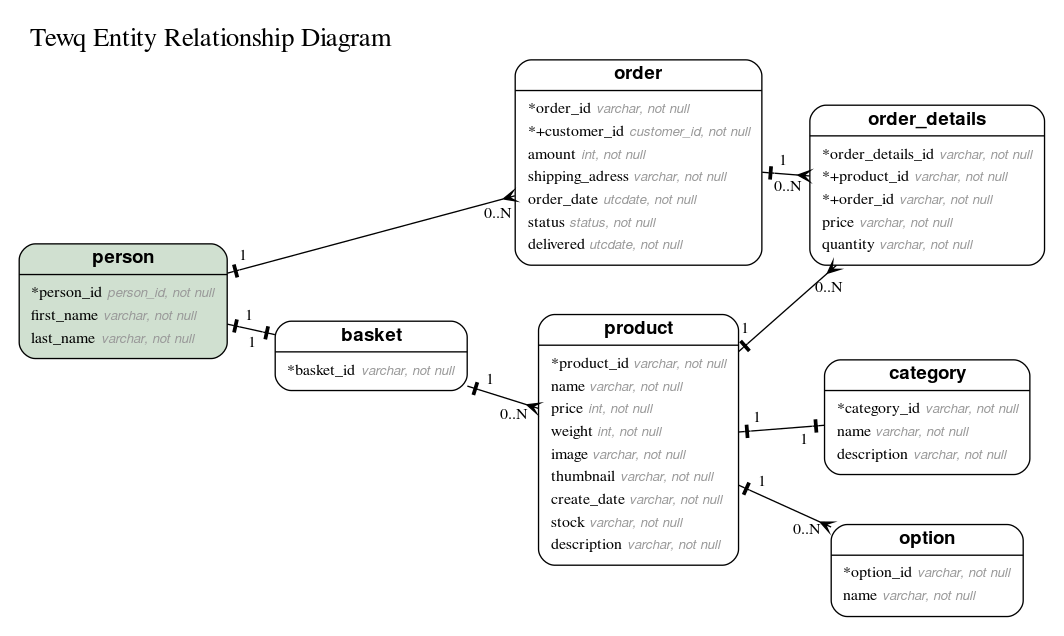
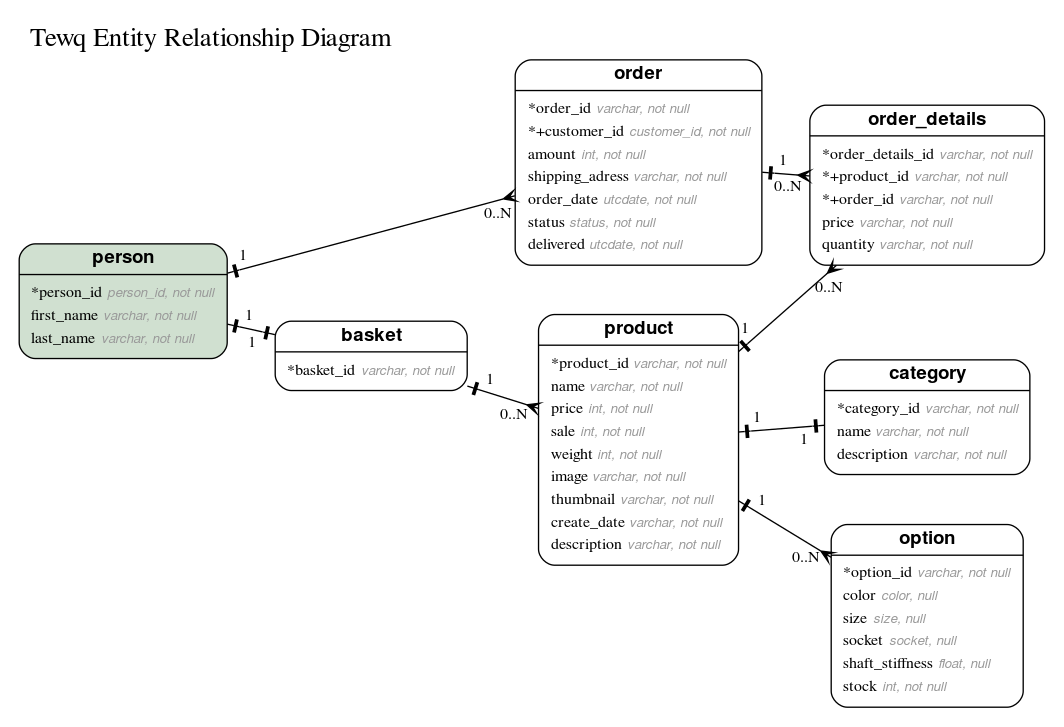
Add function to add a option to a Product.

diff --git a/dynamodb/dynamodb.go b/dynamodb/dynamodb.go
@@ -12,20 +12,25 @@ import (
 )
 
 type Option struct {
-	ID string `json:"id"`
+	ID             string  `json:"id"` // TODO make this in UUID instead...
+	CreatedDate    string  `json:"createdDate"`
+	Stock          int     `json:"stock" dynamodbav:",omitempty"`
+	ShaftStiffness float64 `json:"shaftStiffness" dynamodbav:",omitempty"`
+	Size           string  `json:"size" dynamodbav:",omitempty"`   // TODO enum?
+	Socket         string  `json:"socket" dynamodbav:",omitempty"` // TODO enum?
+	Color          string  `json:"socket" dynamodbav:",omitempty"` // TODO enum?
 }
 
 type Product struct {
-	ID          string    `json:"id"`
-	Name        string    `json:"name"`
-	Description string    `json:"description"`
-	Price       int       `json:"price"`
-	Weight      int       `json:"weight"`
-	Image       string    `json:"image"`
-	Thumbnail   string    `json:"thumbNail"`
-	CreatedDate time.Time `json:"createdDate"`
-	Stock       int       `json:"stock"`
-    Options     []Option  `json:"options" dynamodbav:"-"`
+	ID          string   `json:"id"`
+	CreatedDate string   `json:"createdDate"` // TODO Special time here?
+	Name        string   `json:"name"`
+	Description string   `json:"description"`
+	Price       int      `json:"price"`
+	Weight      int      `json:"weight"`
+	Image       string   `json:"image"`
+	Thumbnail   string   `json:"thumbNail"`
+	Options     []Option `json:"options" dynamodbav:",omitempty"`
 }
 
 type Basket struct {
@@ -84,3 +89,31 @@ func (db *DynamoDB) AddProduct(p Product) (string, error) {
 	return p.ID, err
 }
 
+func (db *DynamoDB) AddOptionToProduct(id string, option Option) error {
+	if option.ID != "" {
+		return fmt.Errorf("When adding an product we did not expect the ID to have a value but it got %q", id)
+	}
+	if option.CreatedDate != "" {
+		return fmt.Errorf("When adding an product we did not expect the CreatedDate to already be set but it was set to %q", option.CreatedDate)
+	}
+	option.ID = uuid.New().String()
+	option.CreatedDate = time.Now().Format(time.RFC3339)
+
+	pk := fmt.Sprintf("PRODUCT#%s", id)
+	sort := fmt.Sprintf("OPTION#%s", option.CreatedDate)
+
+	item, err := dynamodbattribute.MarshalMap(&option)
+	if err != nil {
+		return err
+	}
+	item["type"] = &dynamodb.AttributeValue{S: aws.String("product_option")}
+	item["PK"] = &dynamodb.AttributeValue{S: aws.String(pk)}
+	item["SK"] = &dynamodb.AttributeValue{S: aws.String(sort)}
+
+	_, err = db.db.PutItem(&dynamodb.PutItemInput{
+		TableName: aws.String(db.tableName),
+		Item:      item,
+	})
+
+	return err
+}

diff --git a/dynamodb/dynamodb_test.go b/dynamodb/dynamodb_test.go
@@ -27,7 +27,35 @@ func TestAddProduct(t *testing.T) {
 
 	_, err = tdb.AddProduct(product)
 	is.NoErr(err)
+}
 
+func TestAddOptionToProduct(t *testing.T) {
+	is := is.New(t)
+	product := Product{
+		Name:        "Golf Club",
+		Description: "This is a product",
+		Price:       1000,
+		Weight:      1500,
+		Image:       "s3://images/image.png",
+		Thumbnail:   "s3://images/thumbnail.png",
+	}
+	option := Option{
+		Color:          "red",
+		Stock:          1,
+		Size:           "Medium",
+		ShaftStiffness: 11.5,
+		Socket:         "Right",
+	}
+
+	tdb, err := NewTestDynamoDB()
+	is.NoErr(err)
+	defer tdb.Close()
+
+	id, err := tdb.AddProduct(product)
+	is.NoErr(err)
+
+	err = tdb.AddOptionToProduct(id, option)
+	is.NoErr(err)
 }
 
 type TestDynamoDB struct {
